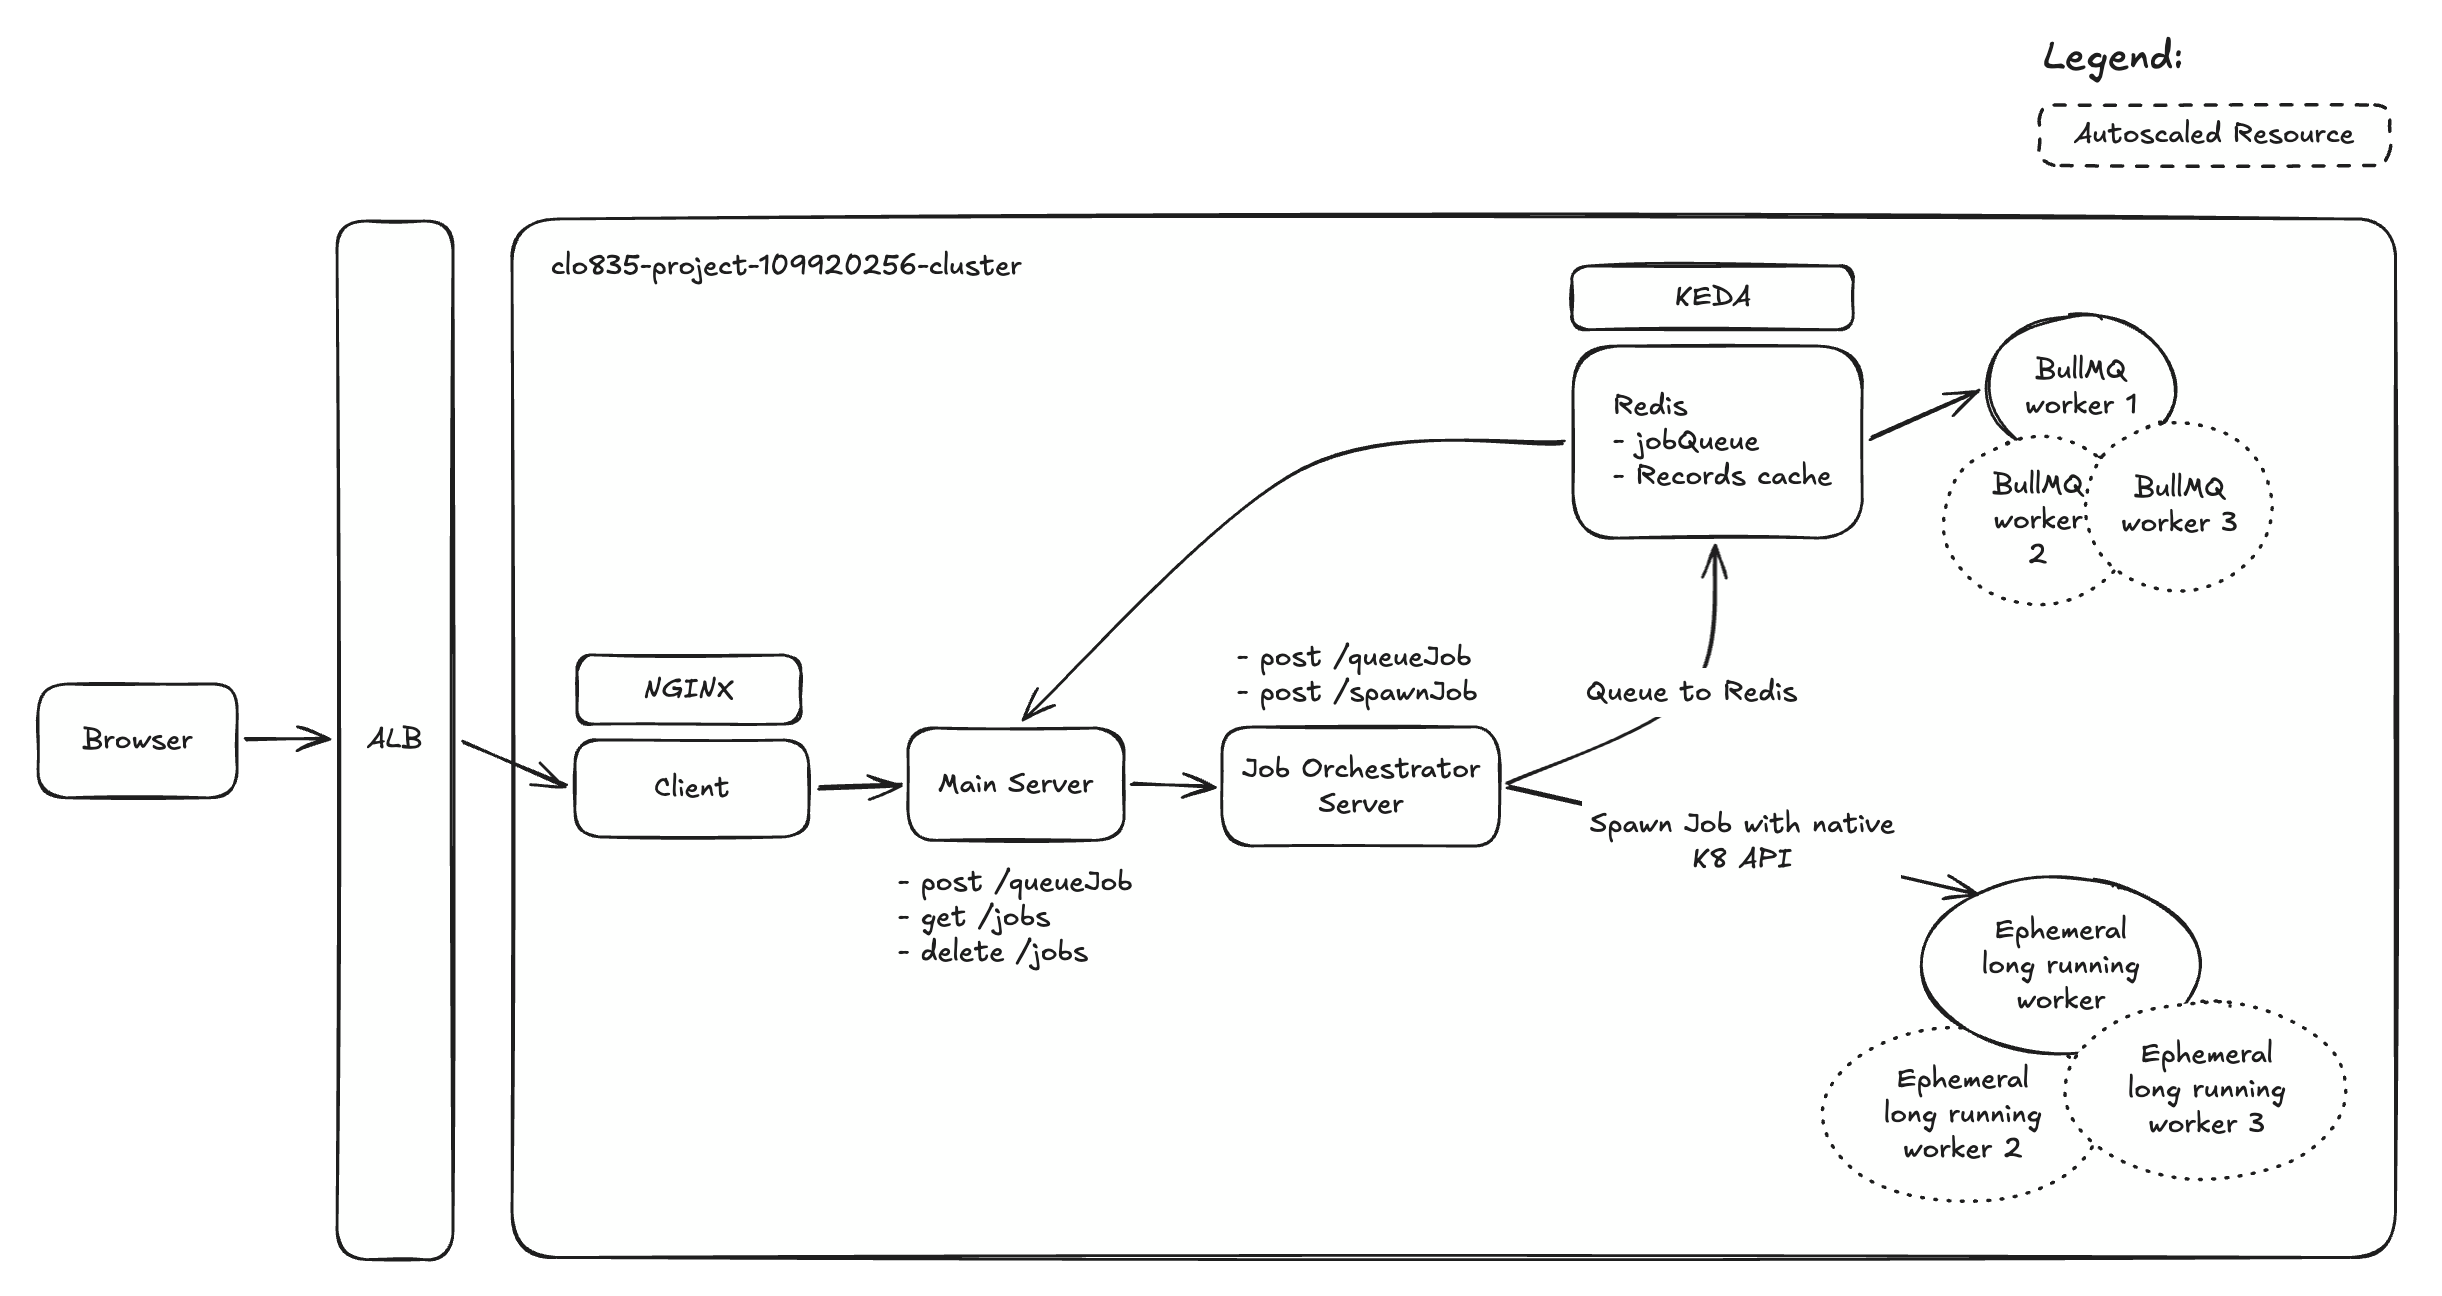
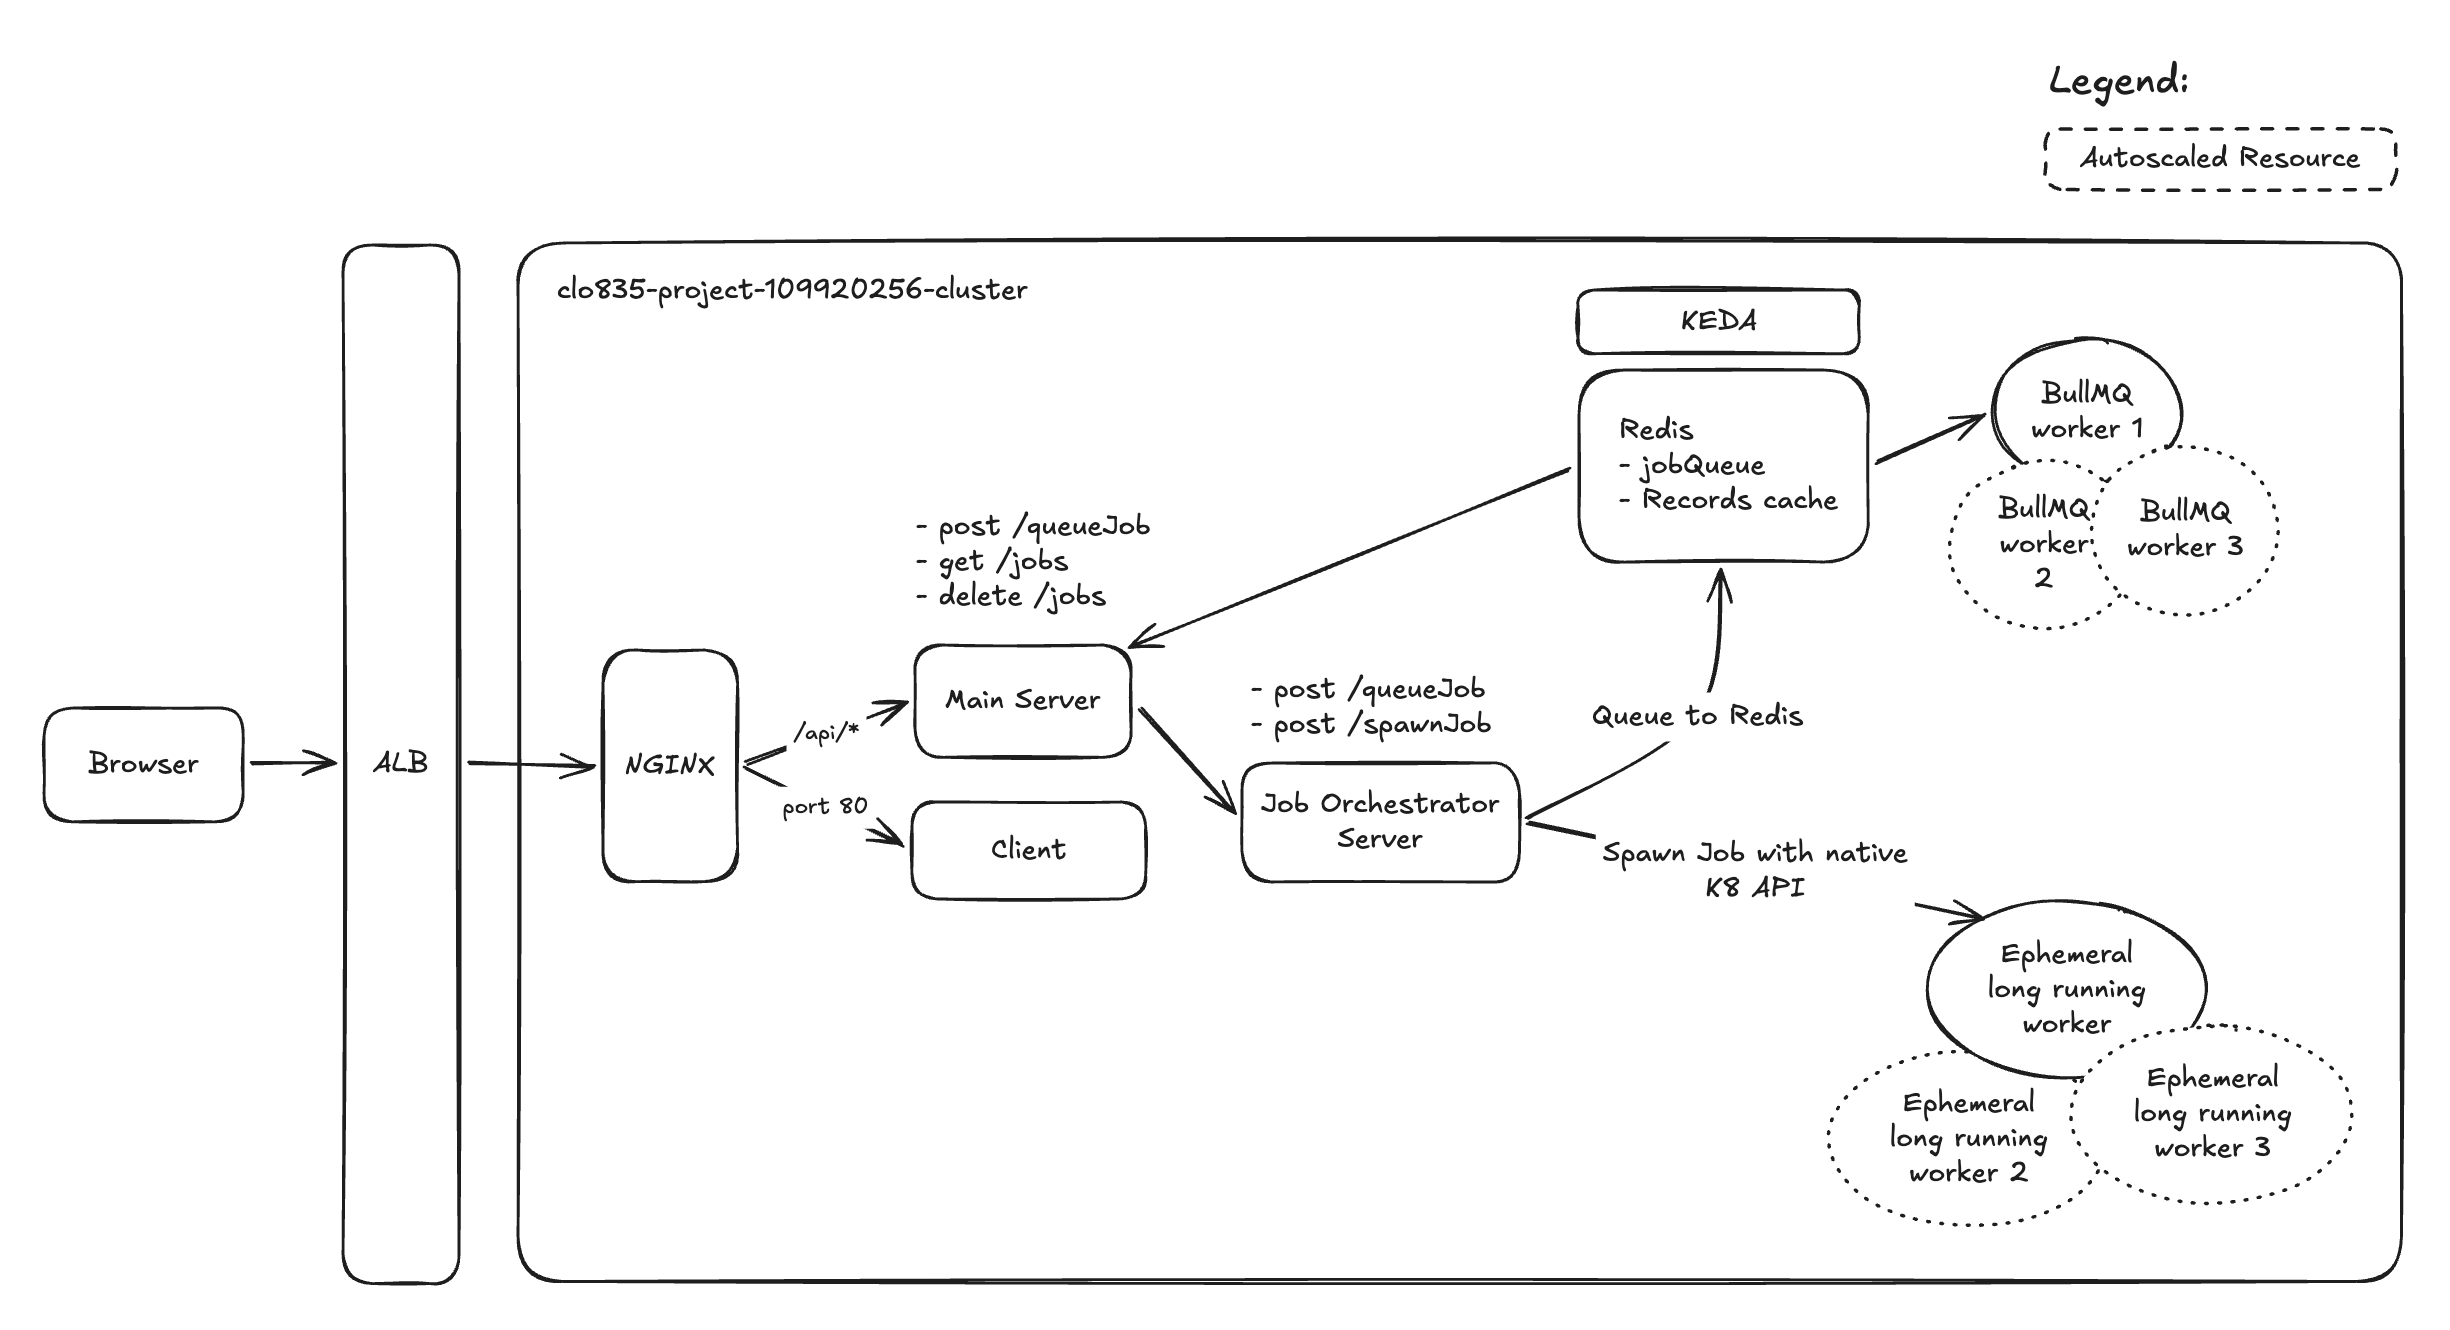
feat: updated images

diff --git a/packages/task-orchestrator/src/utils/getJobRunner.ts b/packages/task-orchestrator/src/utils/getJobRunner.ts
@@ -53,7 +53,7 @@ class KubernetesJobRunner implements JobRunner {
   appLabel = 'ephemeral-worker';
   clusterNamespace = process.env.K8_NAMESPACE ?? 'orch-109920256';
   client = k8ApiClient;
-  containerImage = ''; // TODO: update
+  containerImage = 'zjlianlee/clo835-project-ephemeral-worker:latest';
 
   async run(jobId: string, retryAttempt: number): Promise<void> {
     const jobManifest: k8s.V1Job = {

diff --git a/packages/client/index.html b/packages/client/index.html
@@ -3,7 +3,7 @@
   <head>
     <meta charset="UTF-8" />
     <meta name="viewport" content="width=device-width, initial-scale=1.0" />
-    <title>CLO835 Project - 109920256</title>
+    <title>🐳 Job Pusher - 109920256</title>
   </head>
   <body>
     <div id="root"></div>
